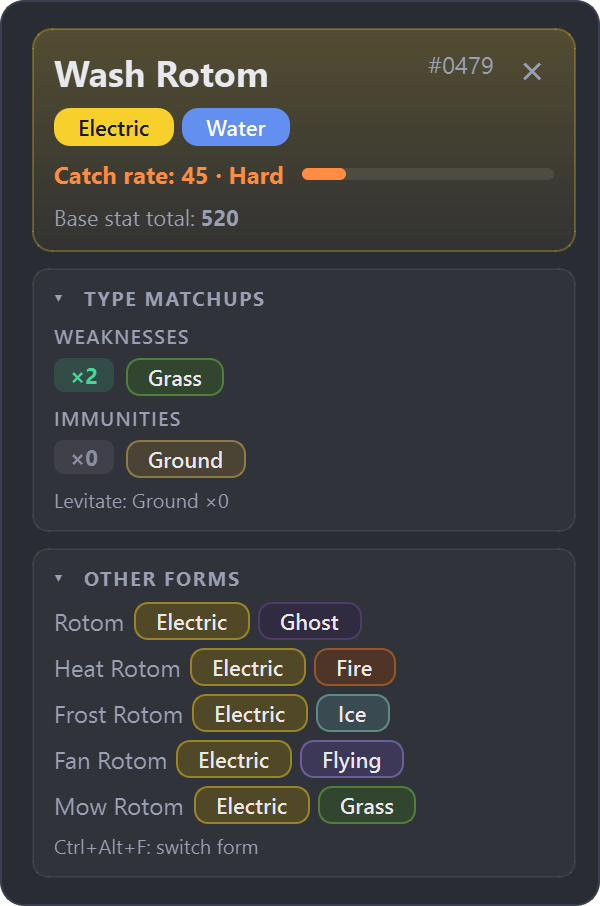
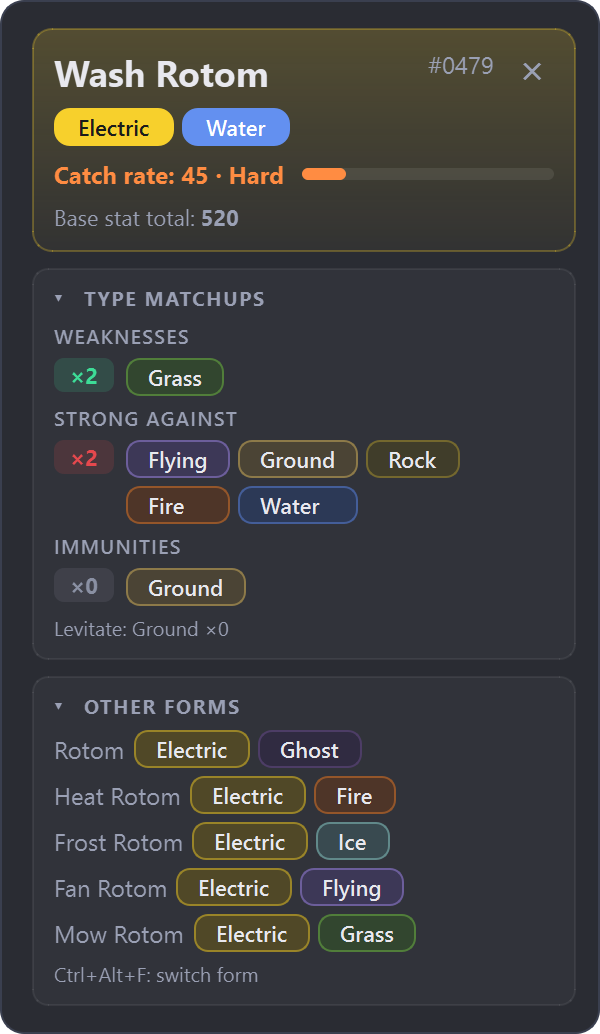
feat: «Fuerte contra» en la ficha y fichas de dobles en el orden de la pantalla
La ficha (y la del stream) muestra los tipos a los que el rival hace ×2 con
los ataques de su tipo. En dobles, las tarjetas siguen el orden de los
recuadros en pantalla. Web: sección de la 0.5 con la pantalla de inicio
(imagen según el idioma) y capturas regeneradas.

diff --git a/site/guide.html b/site/guide.html
@@ -204,13 +204,13 @@
           <p>Con la <b>detección automática</b> activada no tienes que pulsar nada: en cuanto se ve el nombre del rival, la ficha aparece junto al emulador. Se oculta unos segundos después de terminar el combate (4 s por defecto).</p>
           <div class="pair">
             <figure class="shot shot-card">
-              <img src="assets/guide/es/card-default.png" width="300" height="221" loading="lazy" alt="Ficha de Machop en modo Normal con los ajustes de fábrica">
+              <img src="assets/guide/es/card-default.png" width="300" height="285" loading="lazy" alt="Ficha de Machop en modo Normal con los ajustes de fábrica">
               <figcaption>Así sale de fábrica: lo esencial.</figcaption>
             </figure>
             <dl class="defs">
               <dt>Cabecera</dt><dd>Nombre, número de la Pokédex y tipos del rival en el color de cada tipo.</dd>
               <dt>Captura</dt><dd>Ratio de captura con su dificultad y un medidor: cuanto más lleno, más fácil.</dd>
-              <dt>Eficacias</dt><dd>Debilidades (×2, ×4), resistencias e inmunidades según la tabla de tipos de tu juego.</dd>
+              <dt>Eficacias</dt><dd>Debilidades (×2, ×4), <b>fuerte contra</b> (los tipos a los que sus ataques de su propio tipo hacen ×2, en rojo porque son una amenaza para ti), resistencias e inmunidades, según la tabla de tipos de tu juego.</dd>
             </dl>
           </div>
           <ul class="checks">
@@ -228,11 +228,11 @@
           <p>Cambia de modo con <kbd>Ctrl</kbd>+<kbd>Alt</kbd>+<kbd>M</kbd>, desde la bandeja (<i>Modo de la ficha</i>) o en <i>Ajustes › Ficha</i>.</p>
           <div class="pair pair-top">
             <figure class="shot shot-card">
-              <img src="assets/guide/es/card-normal.png" width="300" height="386" loading="lazy" alt="Ficha Normal con todas las secciones">
+              <img src="assets/guide/es/card-normal.png" width="300" height="450" loading="lazy" alt="Ficha Normal con todas las secciones">
               <figcaption><span class="pill pill-normal">Normal</span> Para la aventura y la captura.</figcaption>
             </figure>
             <figure class="shot shot-card">
-              <img src="assets/guide/es/card-competitive.png" width="360" height="1135" loading="lazy" alt="Ficha Competitiva con nivel, estadísticas a su nivel, habilidades, movimientos probables y entrenamiento">
+              <img src="assets/guide/es/card-competitive.png" width="360" height="1199" loading="lazy" alt="Ficha Competitiva con nivel, estadísticas a su nivel, habilidades, movimientos probables y entrenamiento">
               <figcaption><span class="pill pill-pro">Competitivo</span> Para combates duros y retos.</figcaption>
             </figure>
           </div>
@@ -256,10 +256,10 @@
           <dl class="defs">
             <dt>Tu Pokémon</dt><dd>Con su nombre calibrado, la ficha muestra <b>«Contra tu X»</b>: lo que le hacen tus tipos, lo que te hacen los suyos y un veredicto (<b>Ventaja / Neutral / Desventaja</b>). Si tu Pokémon tiene mote, no se puede reconocer.</dd>
             <dt>Menú de ataques</dt><dd>Calíbralo con el menú de <i>Luchar</i> abierto, sobre los 4 movimientos. Cada vez que lo abres, BattleLens lee tus ataques y los recuerda por especie; la sección <b>Tus movimientos</b> dice cuánto le hace cada uno a ese rival. Mientras no los haya leído, muestra los probables de tu Pokémon a su nivel.</dd>
-            <dt>2.º rival (combates dobles)</dt><dd>En los combates dobles aparecen dos fichas, una al lado de la otra.</dd>
+            <dt>2.º rival (combates dobles)</dt><dd>En los combates dobles aparecen dos fichas, una al lado de la otra, en el mismo orden que los recuadros en la pantalla.</dd>
           </dl>
           <figure class="shot shot-card">
-            <img src="assets/guide/es/card-double.png" width="586" height="412" loading="lazy" alt="Combate doble: fichas de Zigzagoon de Galar y Stufful comparadas con tu Scorbunny">
+            <img src="assets/guide/es/card-double.png" width="586" height="476" loading="lazy" alt="Combate doble: fichas de Zigzagoon de Galar y Stufful comparadas con tu Scorbunny">
             <figcaption>Combate doble con tu Pokémon calibrado.</figcaption>
           </figure>
           <p class="note">«Contra tu Pokémon» y «Tus movimientos» vienen ocultas de fábrica. Actívalas en <a href="#a-medida">Ajustes › Ficha</a> después de calibrar.</p>
@@ -269,7 +269,7 @@
           <h2>Megas y otras formas</h2>
           <div class="pair">
             <figure class="shot shot-card">
-              <img src="assets/guide/es/card-form.png" width="300" height="453" loading="lazy" alt="Ficha de Rotom Lavado con la lista de sus otras formas">
+              <img src="assets/guide/es/card-form.png" width="300" height="517" loading="lazy" alt="Ficha de Rotom Lavado con la lista de sus otras formas">
             </figure>
             <div>
               <p>Las <b>formas regionales</b> (Alola, Galar, Hisui, Paldea) se eligen solas según el juego del perfil.</p>
@@ -563,13 +563,13 @@
           <p>With <b>automatic detection</b> on you don't press anything: as soon as the opponent's name is on screen, the card appears next to the emulator. It hides a few seconds after the battle ends (4 s by default).</p>
           <div class="pair">
             <figure class="shot shot-card">
-              <img src="assets/guide/en/card-default.png" width="300" height="221" loading="lazy" alt="Machop card in Normal mode with the default settings">
+              <img src="assets/guide/en/card-default.png" width="300" height="285" loading="lazy" alt="Machop card in Normal mode with the default settings">
               <figcaption>Out of the box: just the essentials.</figcaption>
             </figure>
             <dl class="defs">
               <dt>Header</dt><dd>The opponent's name, Pokédex number and types, in each type's color.</dd>
               <dt>Catch rate</dt><dd>Catch rate with its difficulty and a meter: the fuller, the easier.</dd>
-              <dt>Type matchups</dt><dd>Weaknesses (×2, ×4), resistances and immunities using your game's type chart.</dd>
+              <dt>Type matchups</dt><dd>Weaknesses (×2, ×4), <b>strong against</b> (the types its own-type attacks hit ×2, in red because they're a threat to you), resistances and immunities, using your game's type chart.</dd>
             </dl>
           </div>
           <ul class="checks">
@@ -587,11 +587,11 @@
           <p>Switch modes with <kbd>Ctrl</kbd>+<kbd>Alt</kbd>+<kbd>M</kbd>, from the tray (<i>Card mode</i>) or in <i>Settings › Card</i>.</p>
           <div class="pair pair-top">
             <figure class="shot shot-card">
-              <img src="assets/guide/en/card-normal.png" width="300" height="386" loading="lazy" alt="Normal card with every section">
+              <img src="assets/guide/en/card-normal.png" width="300" height="450" loading="lazy" alt="Normal card with every section">
               <figcaption><span class="pill pill-normal">Normal</span> For adventuring and catching.</figcaption>
             </figure>
             <figure class="shot shot-card">
-              <img src="assets/guide/en/card-competitive.png" width="360" height="1149" loading="lazy" alt="Competitive card with level, stats at that level, abilities, likely moves and training data">
+              <img src="assets/guide/en/card-competitive.png" width="360" height="1213" loading="lazy" alt="Competitive card with level, stats at that level, abilities, likely moves and training data">
               <figcaption><span class="pill pill-pro">Competitive</span> For hard battles and challenge runs.</figcaption>
             </figure>
           </div>
@@ -615,10 +615,10 @@
           <dl class="defs">
             <dt>Your Pokémon</dt><dd>With its name calibrated, the card shows <b>"Against your X"</b>: what your types do to it, what its types do to you and a verdict (<b>Advantage / Neutral / Disadvantage</b>). A nicknamed Pokémon can't be recognized.</dd>
             <dt>Moves menu</dt><dd>Calibrate it with the <i>Fight</i> menu open, over the 4 moves. Every time you open it, BattleLens reads your moves and remembers them per species; the <b>Your moves</b> section shows how much each one does to that opponent. Until they've been read, it shows your Pokémon's likely moves at its level.</dd>
-            <dt>2nd opponent (double battles)</dt><dd>In double battles you get two cards side by side.</dd>
+            <dt>2nd opponent (double battles)</dt><dd>In double battles you get two cards side by side, in the same order as the boxes on screen.</dd>
           </dl>
           <figure class="shot shot-card">
-            <img src="assets/guide/en/card-double.png" width="586" height="412" loading="lazy" alt="Double battle: Galarian Zigzagoon and Stufful cards compared with your Scorbunny">
+            <img src="assets/guide/en/card-double.png" width="586" height="476" loading="lazy" alt="Double battle: Galarian Zigzagoon and Stufful cards compared with your Scorbunny">
             <figcaption>A double battle with your Pokémon calibrated.</figcaption>
           </figure>
           <p class="note">"Against your Pokémon" and "Your moves" are hidden out of the box. Turn them on in <a href="#customize">Settings › Card</a> once you've calibrated.</p>
@@ -628,7 +628,7 @@
           <h2>Megas and other forms</h2>
           <div class="pair">
             <figure class="shot shot-card">
-              <img src="assets/guide/en/card-form.png" width="300" height="453" loading="lazy" alt="Wash Rotom card listing its other forms">
+              <img src="assets/guide/en/card-form.png" width="300" height="517" loading="lazy" alt="Wash Rotom card listing its other forms">
             </figure>
             <div>
               <p><b>Regional forms</b> (Alola, Galar, Hisui, Paldea) are picked automatically from the profile's game.</p>

diff --git a/site/index.html b/site/index.html
@@ -208,6 +208,28 @@
       </ol>
     </section>
 
+    <!-- ================= pantalla de inicio ================= -->
+    <section class="section split reverse" id="start">
+      <div class="split-text reveal">
+        <p class="eyebrow" data-en="New in 0.5" data-es="Novedad de la 0.5">New in 0.5</p>
+        <h2 data-en="Open it and you're ready." data-es="Ábrelo y listo.">Open it and you're ready.</h2>
+        <p class="section-lead" data-en="A start screen sets everything up before you play: your emulator, your game's profile and how much detail you want on the card."
+           data-es="Una pantalla de inicio lo deja todo preparado antes de jugar: tu emulador, el perfil de tu juego y cuánto detalle quieres en la ficha.">A start screen sets everything up before you play: your emulator, your game's profile and how much detail you want on the card.</p>
+        <ul class="checks">
+          <li data-en="<b>No profile yet?</b> Create one from a preset without leaving the screen" data-es="<b>¿Aún sin perfil?</b> Créalo con un preset sin salir de la pantalla"><b>No profile yet?</b> Create one from a preset without leaving the screen</li>
+          <li data-en="<b>Only in battle:</b> the card no longer pops up in the Pokédex or on your Pokémon's summary" data-es="<b>Solo en combate:</b> la ficha ya no salta en la Pokédex ni en los datos de tus Pokémon"><b>Only in battle:</b> the card no longer pops up in the Pokédex or on your Pokémon's summary</li>
+          <li data-en="<b>Strong against:</b> the types its own attacks hit ×2" data-es="<b>Fuerte contra:</b> los tipos a los que sus ataques de su tipo hacen ×2"><b>Strong against:</b> the types its own attacks hit ×2</li>
+        </ul>
+      </div>
+      <figure class="split-shot reveal">
+        <img src="assets/guide/en/start.png" width="560" height="483" loading="lazy"
+             data-en-src="assets/guide/en/start.png" data-es-src="assets/guide/es/start.png"
+             alt="Start screen with the emulator window, the profile, the card mode and automatic detection"
+             data-en-alt="Start screen with the emulator window, the profile, the card mode and automatic detection"
+             data-es-alt="Pantalla de inicio con la ventana del emulador, el perfil, el modo de la ficha y la detección automática">
+      </figure>
+    </section>
+
     <!-- ================= modos ================= -->
     <section id="modes" class="section">
       <div class="section-head reveal">
@@ -229,7 +251,7 @@
             </ul>
           </div>
           <div class="mode-shot">
-            <img src="assets/card-normal.png" width="300" height="472" loading="lazy"
+            <img src="assets/card-normal.png" width="300" height="536" loading="lazy"
                  alt="Normal mode card" data-en-alt="Normal mode card" data-es-alt="Ficha en modo Normal">
           </div>
         </article>
@@ -246,7 +268,7 @@
             </ul>
           </div>
           <div class="mode-shot clip" id="pro-shot">
-            <img src="assets/card-competitive.png" width="360" height="1089" loading="lazy"
+            <img src="assets/card-competitive.png" width="360" height="1153" loading="lazy"
                  alt="Competitive mode card with level, stat ranges, abilities, likely moves and training data"
                  data-en-alt="Competitive mode card with level, stat ranges, abilities, likely moves and training data"
                  data-es-alt="Ficha en modo Competitivo con nivel, rangos de estadísticas, habilidades, movimientos probables y entrenamiento">
@@ -270,7 +292,7 @@
         </ul>
       </div>
       <figure class="split-shot reveal">
-        <img src="assets/card-double.png" width="586" height="513" loading="lazy"
+        <img src="assets/card-double.png" width="586" height="554" loading="lazy"
              alt="Double battle: Galarian Zigzagoon and Stufful cards side by side, each compared with your Scorbunny"
              data-en-alt="Double battle: Galarian Zigzagoon and Stufful cards side by side, each compared with your Scorbunny"
              data-es-alt="Combate doble: fichas de Zigzagoon de Galar y Stufful una al lado de la otra, cada una comparada con tu Scorbunny">
@@ -297,7 +319,7 @@
         </div>
         <div class="obs-canvas">
           <span class="live">LIVE</span>
-          <img src="assets/card-normal.png" width="300" height="472" loading="lazy" alt="">
+          <img src="assets/card-normal.png" width="300" height="536" loading="lazy" alt="">
         </div>
       </div>
     </section>

diff --git a/site/app.js b/site/app.js
@@ -25,6 +25,9 @@
     document.querySelectorAll("[data-" + lang + "-alt]").forEach(function (el) {
       el.setAttribute("alt", el.getAttribute("data-" + lang + "-alt"));
     });
+    document.querySelectorAll("[data-" + lang + "-src]").forEach(function (el) {
+      el.setAttribute("src", el.getAttribute("data-" + lang + "-src"));
+    });
     document.querySelectorAll("[data-" + lang + "-content]").forEach(function (el) {
       el.setAttribute("content", el.getAttribute("data-" + lang + "-content"));
     });

diff --git a/src/battlelens/ui/overlay.py b/src/battlelens/ui/overlay.py
@@ -592,27 +592,28 @@ class Overlay(QWidget):
     def _effectiveness(self, view: SpeciesView, layout: QVBoxLayout) -> None:
         """Debilidades (verde: bueno para ti), resistencias (rojo) e inmunidades (gris) en un bloque (D4)."""
         groups = view.matchups
-        sections = [(_("Debilidades"), (4.0, 2.0), "good")]
+        sections = [(_("Debilidades"), [(m, groups[m]) for m in (4.0, 2.0)], "good"),
+                    # Lo que sus ataques de su propio tipo hacen ×2: una amenaza para ti (rojo)
+                    (_("Fuerte contra"), [(2.0, view.strong_against)], "bad")]
         if self.competitive:
-            sections.append((_("Resistencias"), (0.5, 0.25), "bad"))
-        sections.append((_("Inmunidades"), (0.0,), "neutral"))
+            sections.append((_("Resistencias"), [(m, groups[m]) for m in (0.5, 0.25)], "bad"))
+        sections.append((_("Inmunidades"), [(0.0, groups[0.0])], "neutral"))
         lines = ability_effect_lines(view, self._type_label, self.language)
-        present = [s for s in sections if any(groups[m] for m in s[1])]
+        present = [(title, [(m, types) for m, types in rows if types], tone) for title, rows, tone in sections]
+        present = [s for s in present if s[1]]
         if not present and not lines:
             return
         block = self._block("eff", _("Eficacias"), layout)
-        for title, multipliers, tone in present:
+        for title, rows, tone in present:
             block.add(_sub_title(title))
-            for m in multipliers:
-                if not groups[m]:
-                    continue
+            for m, types in rows:
                 row = QHBoxLayout()
                 row.setSpacing(6)
                 mult = _mult(theme.MULTIPLIER_LABELS[m], tone, "eff-mult")
                 mult.setFixedWidth(30)
                 row.addWidget(mult, alignment=Qt.AlignmentFlag.AlignTop)
                 # Dentro del bloque y con la columna del multiplicador, en Normal (300 px) caben 3 por fila
-                pills = [_pill(self._type_label(t), t) for t in groups[m]]
+                pills = [_pill(self._type_label(t), t) for t in types]
                 row.addWidget(_FlowRow(pills, per_row=4 if self.competitive else 3), 1)
                 block.add(row)
         for line in lines:

diff --git a/tests/test_stream.py b/tests/test_stream.py
@@ -28,8 +28,10 @@ def test_tarjeta_normal_machop_contra_scorbunny(dex):
     assert card["capture"]["text"] == "Captura: 180 · Media"
     assert card["versus"]["title"] == "Contra tu Scorbunny" and card["versus"]["verdict"]["label"] == "Neutral"
     assert [(m["name"], m["mult"]) for m in card["moves"]["items"]] == [("Ascuas", "×1"), ("Gruñido", "Estado")]
-    (weak,) = card["groups"]
-    assert weak["title"] == "Debilidades"
+    weak, strong = card["groups"]
+    assert weak["title"] == "Debilidades" and strong["title"] == "Fuerte contra"
+    assert [t["label"] for t in strong["rows"][0]["types"]] == ["Normal", "Roca", "Acero", "Hielo", "Siniestro"]
+    assert strong["rows"][0]["tone"] == "bad"
     assert [t["label"] for t in weak["rows"][0]["types"]] == ["Volador", "Psíquico", "Hada"]
     assert card["stats"] is None and card["total"] == "Total estadísticas base: 305"
 
@@ -37,7 +39,7 @@ def test_tarjeta_normal_machop_contra_scorbunny(dex):
 def test_tarjeta_competitiva(dex):
     (card,) = build_cards(dex, [dex.view(66, "sword-shield")], None, [16], mode="competitive")
     assert card["level"] == "Nv. 16"
-    assert [g["title"] for g in card["groups"]] == ["Debilidades", "Resistencias"]
+    assert [g["title"] for g in card["groups"]] == ["Debilidades", "Fuerte contra", "Resistencias"]
     assert card["stats"]["total"] == 305 and len(card["stats"]["rows"]) == 6
 
 
@@ -57,7 +59,7 @@ def test_tarjeta_en_ingles_con_datos_en_espanol(dex):
     assert card["versus"]["title"] == "Against your Scorbunny"
     assert card["versus"]["verdict"] == {"label": "Neutral", "key": "neutral"}
     assert [(m["name"], m["mult"]) for m in card["moves"]["items"]] == [("Ascuas", "×1"), ("Gruñido", "Status")]
-    assert [g["title"] for g in card["groups"]] == ["Weaknesses", "Resistances"]
+    assert [g["title"] for g in card["groups"]] == ["Weaknesses", "Strong against", "Resistances"]
     assert [t["label"] for t in card["groups"][0]["rows"][0]["types"]] == ["Volador", "Psíquico", "Hada"]
     assert card["stats"]["title"] == "Base stats" and card["stats"]["rows"][0]["label"] == "HP"
 

diff --git a/src/battlelens/stream/payload.py b/src/battlelens/stream/payload.py
@@ -14,13 +14,14 @@ from ..core.pokedex import Pokedex, SpeciesView
 from ..i18n import N_, _
 from ..ui import theme
 
-EFFECT_GROUPS = (("weaknesses", (4.0, 2.0)), ("resistances", (0.5, 0.25)), ("immunities", (0.0,)))
+EFFECT_GROUPS = (("weaknesses", (4.0, 2.0)), ("strong", (2.0,)), ("resistances", (0.5, 0.25)), ("immunities", (0.0,)))
 # Textos en español marcados con N_: se traducen al construir cada tarjeta (add-english-ui D5)
 TITLES = {
     "versus": N_("Contra tu {name}"),
     "moves": N_("Tus movimientos"),
     "moves_probable": N_("Tus movimientos (probables)"),
     "weaknesses": N_("Debilidades"),
+    "strong": N_("Fuerte contra"),
     "resistances": N_("Resistencias"),
     "immunities": N_("Inmunidades"),
     "stats": N_("Estadísticas base"),
@@ -40,7 +41,7 @@ HIDDEN_FIELDS = {
     "evo": (("evolution", None),),
 }
 # Tono de cada grupo de eficacias para el jugador (improve-card-visuals D4)
-GROUP_TONES = {"weaknesses": "good", "resistances": "bad", "immunities": "neutral"}
+GROUP_TONES = {"weaknesses": "good", "strong": "bad", "resistances": "bad", "immunities": "neutral"}
 
 
 def _type(pokedex: Pokedex, type_id: str | None, lang: str) -> dict:
@@ -124,9 +125,10 @@ def _card(
     for key, multipliers in EFFECT_GROUPS:
         if key == "resistances" and not competitive:
             continue
+        groups = {2.0: view.strong_against} if key == "strong" else view.matchups
         rows = [{"mult": theme.MULTIPLIER_LABELS[m], "tone": GROUP_TONES[key],
-                 "types": [_type(pokedex, t, lang) for t in view.matchups[m]]}
-                for m in multipliers if view.matchups[m]]
+                 "types": [_type(pokedex, t, lang) for t in groups[m]]}
+                for m in multipliers if groups[m]]
         if rows:
             card["groups"].append({"title": _(TITLES[key]), "rows": rows})
     if competitive:

diff --git a/src/battlelens/core/pokedex.py b/src/battlelens/core/pokedex.py
@@ -249,6 +249,8 @@ class SpeciesView:
     ev_yield: dict[str, int] = field(default_factory=dict)
     # Efectos defensivos de sus habilidades, seguros y posibles (add-ability-aware-matchups D3)
     ability_effects: tuple[AbilityEffect, ...] = field(default_factory=tuple)
+    # Tipos a los que sus ataques de su propio tipo (STAB) hacen ×2
+    strong_against: tuple[str, ...] = field(default_factory=tuple)
     form_id: str | None = None  # identificador de la forma mostrada (el de la especie si es la base)
     base_pokemon: str | None = None  # Pokémon de la especie, para los movimientos de las megas
 
@@ -423,6 +425,11 @@ class Pokedex:
                 groups[factor].append(attacking)
         return groups
 
+    def strong_against(self, attacking_types: tuple[str, ...], generation: int = CURRENT_GENERATION) -> tuple[str, ...]:
+        """Tipos defensores a los que alguno de `attacking_types` hace ×2 en esa generación."""
+        chart = self.type_chart(generation)
+        return tuple(d for d in chart if any(chart.get(a, {}).get(d, 1.0) >= 2 for a in attacking_types))
+
     def ability_effects(
         self, defending_types: tuple[str, ...], abilities: tuple[Ability, ...], generation: int = CURRENT_GENERATION
     ) -> tuple[AbilityEffect, ...]:
@@ -567,6 +574,7 @@ class Pokedex:
             abilities=abilities,
             generation=generation,
             matchups=self.defensive_matchups(types, generation, abilities),
+            strong_against=self.strong_against(types, generation),
             other_forms=tuple(others),
             capture_rate=species.capture_rate,
             capture_difficulty=capture_difficulty(species.capture_rate),

diff --git a/tests/test_app.py b/tests/test_app.py
@@ -751,3 +751,18 @@ def test_deteccion_sin_nivel_no_muestra_la_ficha(controller, monkeypatch):
     controller._busy = True
     controller._on_auto_result(((25, None, None), fp + 50, type("P", (), {"game": None})(), (12, None, None)))
     assert shown == [(25, None, None)]
+
+
+@pytest.mark.parametrize("rival2_x, expected", [(0.49, ["Bulbasaur", "Charmander"]), (0.05, ["Bulbasaur", "Charmander"]),
+                                                 (0.77, ["Charmander", "Bulbasaur"])])
+def test_dobles_en_el_orden_de_la_pantalla(controller, monkeypatch, rival2_x, expected):
+    """Las fichas van de izquierda a derecha como los recuadros, aunque el «2.º rival» esté a la izquierda."""
+    from battlelens.core.profiles import Profile, Region
+
+    rival_x = 0.76 if rival2_x < 0.76 else 0.3
+    controller.profiles.save(Profile("Dobles", Region(rival_x, 0.03, 0.22, 0.06), game="sword-shield",
+                                     rival2_region=Region(rival2_x, 0.03, 0.22, 0.06)), activate=True)
+    shown = []
+    monkeypatch.setattr(controller.overlay, "show_battle", lambda rivals, *a: shown.append([v.name for v in rivals]))
+    controller._show_battle((4, 1, None), "sword-shield", None, (12, 14, None))  # rival Charmander, 2.º Bulbasaur
+    assert shown == [expected]

diff --git a/src/battlelens/app.py b/src/battlelens/app.py
@@ -772,6 +772,9 @@ class Controller(QObject):
         rival, rival2, own = key
         lang = self.config.language
         pairs = [(sid, lvl) for sid, lvl in zip((rival, rival2), levels[:2]) if sid is not None]
+        profile = self.profiles.active
+        if profile is not None and profile.rival2_region is not None and profile.rival2_region.x < profile.region.x:
+            pairs.reverse()  # fichas en el orden de los recuadros en pantalla, de izquierda a derecha
         # La forma elegida se olvida cuando la especie deja de estar entre los rivales (add-alternate-forms D4)
         self._form_choice = {sid: f for sid, f in self._form_choice.items() if sid in (rival, rival2)}
         self.overlay.form_hotkey = self.config.hotkey_cycle_form

diff --git a/tests/test_pokedex.py b/tests/test_pokedex.py
@@ -42,3 +42,12 @@ def test_inmunidades_gengar(dex):
 def test_dataset_ausente(tmp_path):
     with pytest.raises(DatasetMissingError, match="build_dataset"):
         Pokedex.load(tmp_path / "no-existe.json")
+
+
+def test_fuerte_contra_segun_la_generacion():
+    from battlelens.core.pokedex import Pokedex
+
+    dex = Pokedex.load()
+    assert set(dex.view(4, "sword-shield").strong_against) == {"bug", "steel", "grass", "ice"}  # Charmander
+    assert set(dex.view(4, "red-blue").strong_against) == {"bug", "grass", "ice"}  # sin Acero en la Gen 1
+    assert dex.view(143, "sword-shield").strong_against == ()  # Snorlax: Normal no hace ×2 a nada

diff --git a/tests/test_card_visuals.py b/tests/test_card_visuals.py
@@ -97,7 +97,7 @@ def test_eficacias_agrupadas(qapp, overlay, dex):
     qapp.processEvents()
     (block,) = overlay.blocks("eff")
     texts = [w.text() for w in block.findChildren(QLabel)]
-    assert {"DEBILIDADES", "RESISTENCIAS", "INMUNIDADES"} <= set(texts)
+    assert {"DEBILIDADES", "FUERTE CONTRA", "RESISTENCIAS", "INMUNIDADES"} <= set(texts)
 
 
 # ---- bloques plegables (D11) -----------------------------------------------------------

diff --git a/src/battlelens/i18n/en_card.py b/src/battlelens/i18n/en_card.py
@@ -29,6 +29,7 @@ EN: dict[str, str] = {
     # ---- eficacia ----
     "Eficacias": "Type matchups",
     "Debilidades": "Weaknesses",
+    "Fuerte contra": "Strong against",
     "Resistencias": "Resistances",
     "Inmunidades": "Immunities",
     # Notas de habilidades (core/card_text.py, core/abilities.py)
